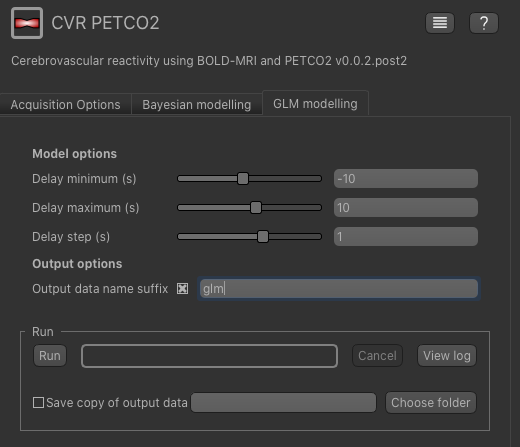
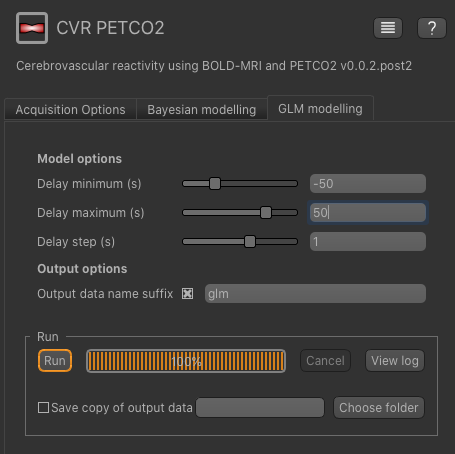
Change GLM delay range to -50 to 50

diff --git a/doc/cvr/tutorial.rst b/doc/cvr/tutorial.rst
@@ -179,7 +179,7 @@ delay times to be tested can be specified, as well as the step length. Of course
 analysis will take. Unlike the Bayesian approach, only the specific delay times tested will be returned in the delay time map,
 so this will effectively be a discrete rather than a continuous map.
 
-In this tutorial we will tell the GLM modelling tool to search delay times between -10s and 10s, in steps of 1s, as follows:
+In this tutorial we will tell the GLM modelling tool to search delay times between -50s and 50s, in steps of 1s, as follows:
 
 .. image:: /screenshots/cvr/glm.png
 
